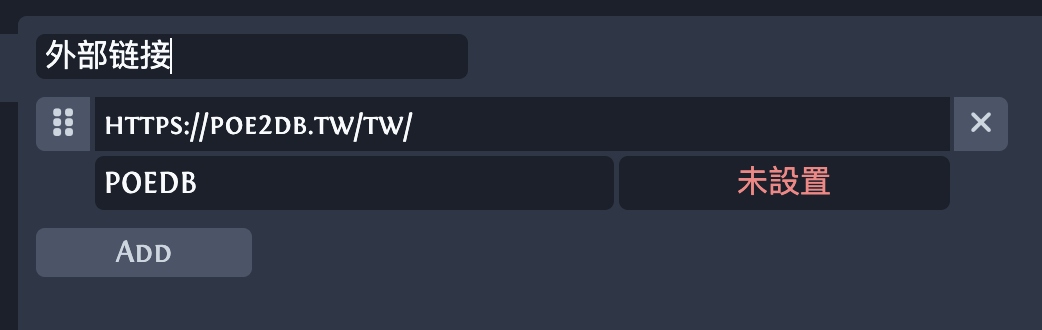
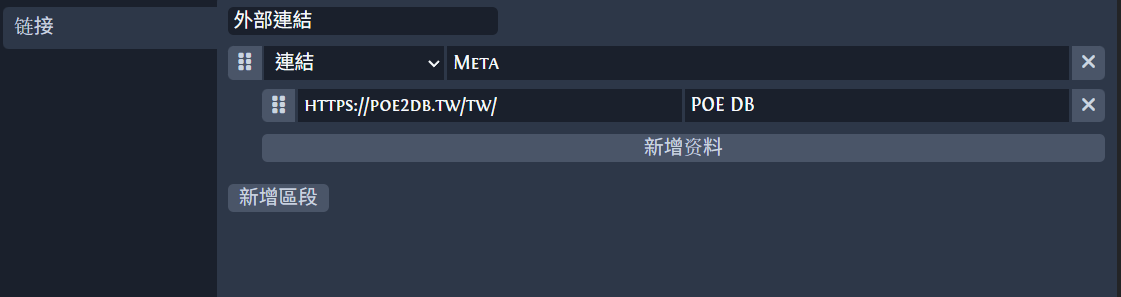
Update readme

diff --git a/README.md b/README.md
@@ -14,7 +14,7 @@ A price track widget to show pricing. Data from poeninja, toggle exchange rate, 
 | ![Price Track Top](./renderer/public/images/priceTrack-top.png) | ![Price Track Pin](./renderer/public/images/priceTrack-pin.png) |
 
 ## Craft Step Widget
-Craft steps widget can list required currencies pricing, trade basetype, check target price and record craft steps.
+Craft steps widget can list required currencies pricing, trade basetype, check target price, calc rough profit and record craft steps.
 | Setting                                                               | Display                                                               |
 |-----------------------------------------------------------------------|-----------------------------------------------------------------------|
 | ![Craft Setting](./renderer/public/images/craft-setting.png) | ![Craft Result](./renderer/public/images/craft-result.png) |
